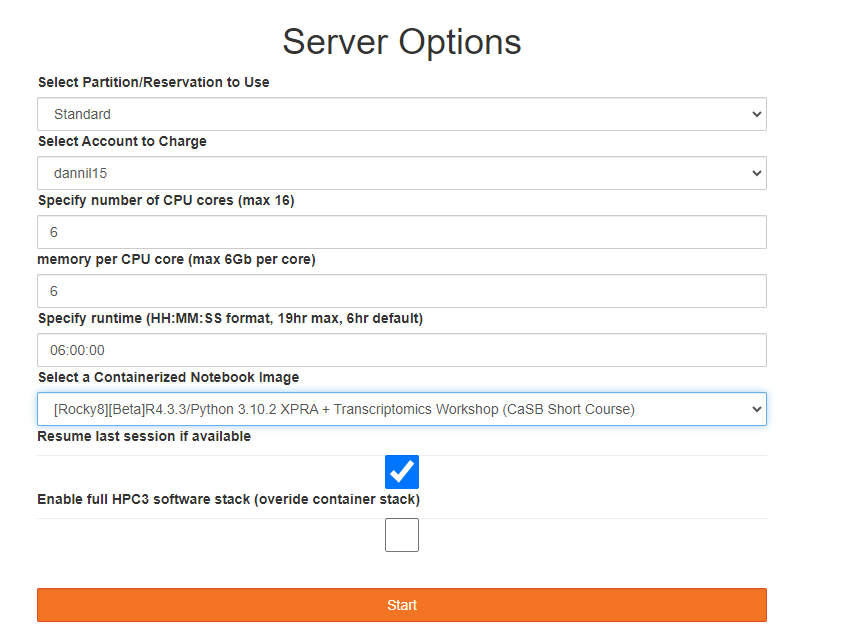
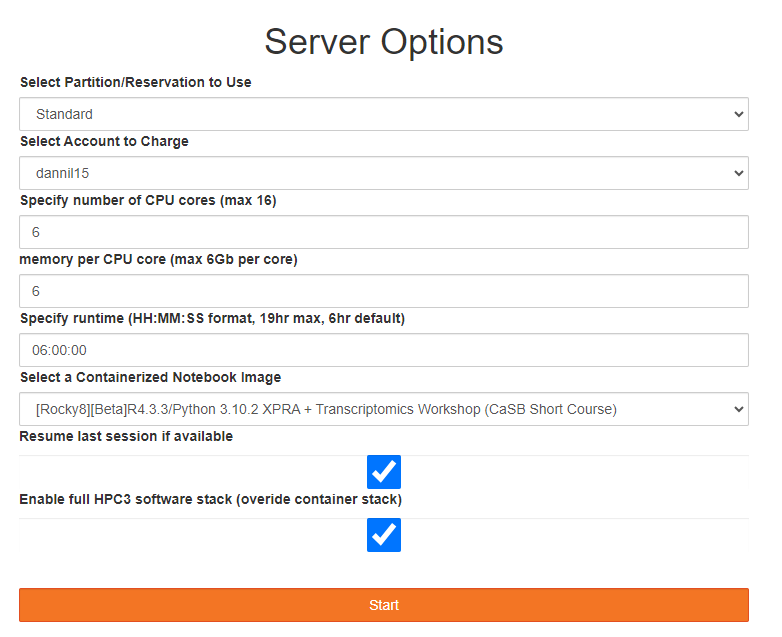
a

Changed region(s): [[0.0, 0.1193, 0.9514, 0.865], [0.0, 0.8948, 0.9821, 0.9843], [0.3376, 0.0298, 0.6445, 0.0895]]

diff --git a/docs/index.html b/docs/index.html
@@ -225,7 +225,7 @@ code span.wa { color: #60a0b0; font-weight: bold; font-style: italic; } /* Warni
 </div>
 <div id="server-environment-requirements" class="section level2 hasAnchor" number="1.2">
 <h2><span class="header-section-number">1.2</span> Server environment requirements<a href="index.html#server-environment-requirements" class="anchor-section" aria-label="Anchor link to header"></a></h2>
-<p>We will use the UCI HPC3 environment for analysis. Please navigate to the <a href="https://hpc3.rcic.uci.edu/biojhub4/hub/login">JypyterHub portal</a>, and start a container under the one with ** *CaSB Short Course <strong> which has “R4.3.3” and required R packages installed in the environment. Please request </strong>4-8 CPU cores<strong>, with </strong>6Gb of memory** for each core.</p>
+<p>We will use the UCI HPC3 environment for analysis. Please navigate to the <a href="https://hpc3.rcic.uci.edu/biojhub4/hub/login">JypyterHub portal</a>, and start a container under the one with ** *CaSB Short Course <strong> which has “R4.3.3” and required R packages installed in the environment. Please request </strong>4-8 CPU cores<strong>, with </strong>6Gb of memory** for each core. Also please check the last box “Enable full HPC3 software stack (overide container stack)” if you want to try running <code>cellranger-arc</code>.</p>
 <div class="figure" style="text-align: center"><span style="display:block;" id="fig:unnamed-chunk-1"></span>
 <img src="images/hpc3.png" alt="JupyterHub server setting" width="100%" />
 <p class="caption">
